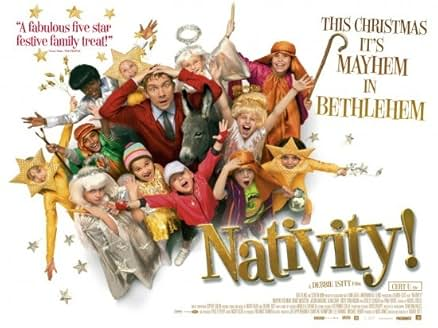
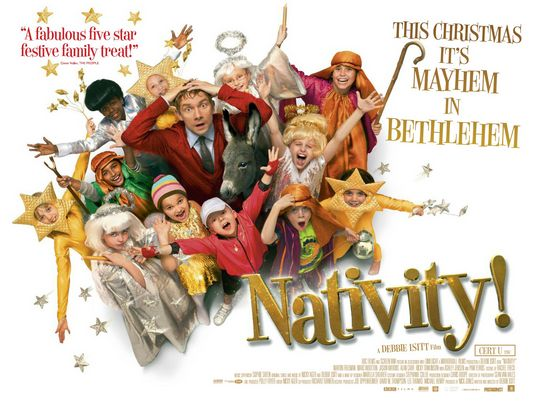
update picture

diff --git a/films.html b/films.html
@@ -30,7 +30,7 @@
 
 
     <div class="container">
-        <img class="nativity" src="nativity.jpg" alt="nativity_one_film_" width="600" height="800">
+        <img class="nativity" src="nativity.jpg" alt="nativity_one_film_" width=auto height=auto>
 
         <div class="articleRight">
             <h2>Nativity</h2>
@@ -44,7 +44,7 @@
             <h3>Nativity 2: Danger in the Manger! (2012) is a British Christmas musical comedy following a new, stressed teacher (David Tennant) who replaces Mr. Maddens at St. Bernadette’s. He reluctantly takes his chaotic class on a road trip to Wales to compete in a national "Song for Christmas" competition, facing adventures with Mr. Poppy.</h3>
         </div>
       <div class="container">
-        <img class="nativity_two" src="nativity2.jpeg" alt="nativity_two_film_" width="600" height="800">
+        <img class="nativity_two" src="nativity2.jpeg" alt="nativity_two_film_" width=auto height=auto>
     </div>
 
       <div class="container">

diff --git a/pictures.html b/pictures.html
@@ -43,9 +43,9 @@
       </div>
     </topnav>
 
-    <div class="skyImageGrid">
-      <div><div><img class="skyOne" src="skyOne.jpeg" alt="skyOneImage" width="300" height="400"></div></div>
-            <div><div><img class="skyTwo" src="skyTwo.jpeg" alt="skyTwoImage" width="300" height="400"></div></div>
+   
+      <div><div><img clolass="skyOne" src="skyOne.jpeg" alt="skyOneImage" width="300" height="400"></div></div>
+            <div><div><img class="skyTwo" src="skyTwo.jpeg" alt="skyTwoImage" width=auto height=400></div></div>
             <div><div><img class="skyThree" src="skyThree.jpeg" alt="skyThreeImage" width="300" height="400"></div></div>
             <div><div><img class="skyFour" src="skyFour.jpeg" alt="skyFourImage" width="300" height="400"></div></div>
             <div><div><img class="skyFive" src="skyFive.jpeg" alt="skyFiveImage" width="300" height="400"></div></div>

diff --git a/valentines.html b/valentines.html
@@ -38,9 +38,9 @@
     <h1>&#127801;</h1>
     <h1>&#127803;</h1>
     <h1>&#128174;</h1>
-     <img class="verAndZeezee" src="zezee_and_ver.jpeg" alt="zeezeeAndVer" width="600" height="800">
+     <img class="verAndZeezee" src="zeezee_and_ver.jpeg" alt="zeezeeAndVer" width="600" height="800">
 
-        <p>the 15th of August 2025</p>
+        <p>the 15th of November 2025</p>
         <p>was the date our hands became tied</p>
         <p>the night was sweet and exciteful</p>
         <p>while the moon outside shon brightul</p>
@@ -72,6 +72,8 @@
         <p>I am yours</p>
         <p>you are mine</p>
         <p>thank you honey xxxx</p>
+    <br>
+    <br>
 </div>
 
   </main>

diff --git a/hobbies.html b/hobbies.html
@@ -44,8 +44,7 @@
     </topnav>
 
 
-        art
-        singing
+
         <div class="hobbiesImageGrid">
           <div><img class="hamilton" src="hamilton.webp" alt="hamiltonPlayImage" width="400" height="300"></div>
           <div><img class="guitar" src="guitar.jpg" alt="guitarImage" width="400" height="400"></div>

diff --git a/css.css b/css.css
@@ -130,4 +130,6 @@ section {
   text-align: center;
 }
 
-
+.skyImageGrid{
+  padding: 50px
+}
